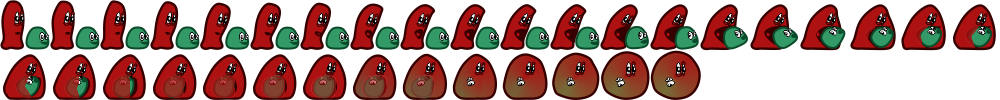
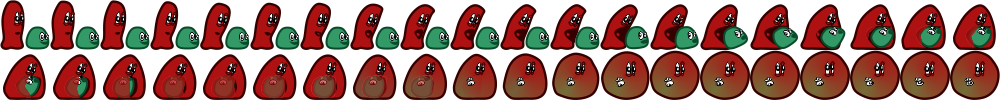
Sphere 'idle' animation added

Changed region(s): [[0.651, 0.51, 1.0, 1.0]]

diff --git a/src/BlobApp/Entities/EntityTypes/Sphere.js b/src/BlobApp/Entities/EntityTypes/Sphere.js
@@ -30,7 +30,7 @@ BlobApp.Sphere = (function Sphere(x_pos, y_pos, sizeX, sizeY) {
 			
 			animations : {
 				startAni : [0, 33, "roll"],
-				roll: [33, 33],
+				roll: [33, 39, "roll", 0.5],
 				stop: {
 					frames: [33, 32, 31, 30, 29, 28, 27, 26, 25, 24, 23, 22, 21, 20,
 						19, 18, 17, 16, 15, 14, 13, 12, 11, 10, 9, 8, 7, 6, 5, 4, 3, 2, 1, 0]
